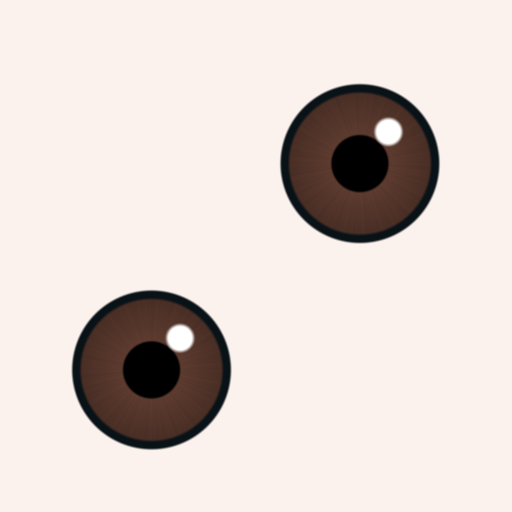
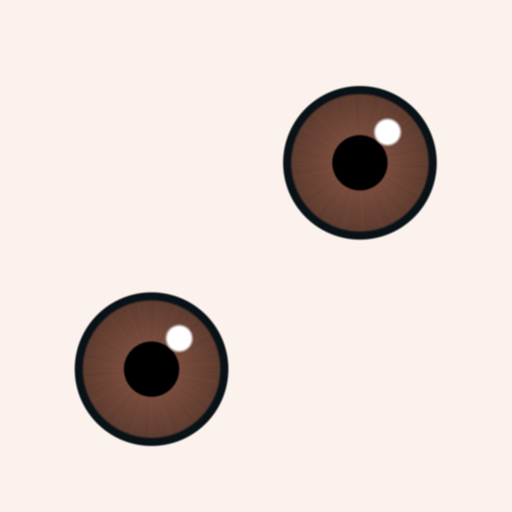
Rounds 24 to 29 of the loop: lid by kind, simple volumes of face and neck, matte skin, wider kinder mouth (5.0 in 10)

Changed region(s): [[0.125, 0.5625, 0.4688, 0.9062], [0.5312, 0.1562, 0.875, 0.5]]

diff --git a/tools/parle_style.py b/tools/parle_style.py
@@ -17,10 +17,10 @@ import numpy as np
 # own default, which this replaces). The series' young men have noses 0.31 to 0.37 of the face long against 0.29 to 0.31 on the cast,
 # and much further out; its old man's is the biggest thing on his face.
 STYLE = {
-    "male": {"forward": 1.25, "nose": 1.6, "tip": 1.5, "brow": 1.4, "eye": 1.25, "skin": 1.3},
-    "male-old": {"forward": 1.3, "nose": 2.0, "tip": 1.65, "brow": 2.2, "eye": 1.25, "skin": 1.3},
-    "female": {"forward": 0.8, "nose": 1.45, "tip": 1.3, "brow": 1.2, "eye": 1.12, "skin": 1.3},
-    "female-old": {"forward": 0.85, "nose": 1.65, "tip": 1.4, "brow": 1.3, "eye": 1.12, "skin": 1.3},
+    "male": {"forward": 1.25, "nose": 1.6, "tip": 1.5, "brow": 1.4, "eye": 1.25, "skin": 1.42},
+    "male-old": {"forward": 1.3, "nose": 2.0, "tip": 1.65, "brow": 2.8, "eye": 1.25, "skin": 1.42},
+    "female": {"forward": 0.8, "nose": 1.45, "tip": 1.3, "brow": 1.2, "eye": 1.12, "skin": 1.42},
+    "female-old": {"forward": 0.85, "nose": 1.65, "tip": 1.4, "brow": 1.9, "eye": 1.12, "skin": 1.42},
 }
 # Round 3 of the loop judged by sight against the series (2026-11-15, 3.1 in 10) asked first for eyes about a third bigger and round,
 # with white showing and a highlight; then warmer, more saturated skin; a bulb at the tip of the nose; eyebrows half as thick again.
@@ -39,7 +39,7 @@ NOSE_TIP_REACH_M = 0.016
 # How round an eye opens at least, its height over its width: the series' eyes are 0.6 to 0.7 (read on its portraits); the cast's
 # lids gave 0.42, with the iris filling the opening (round 5).
 # Round 20 (2026-11-16): at 0.58 the upper lid still covered the top third of the iris, a sleepy look, on all four.
-EYE_TALL_LEAST = 0.68
+EYE_TALL_LEAST = 0.66
 # How much the eye's own map lights it (emission): the white of the series' eyes is white even in the shade of the brow.
 EYE_GLOW = 0.0
 SKIN_WARM = 0.012
@@ -128,10 +128,10 @@ def warmer(rgb, amount):
 # the eyes (`unit`), so one set of numbers serves every person of a kind. SCULPT has them by kind; a share is how much of the way
 # to its form a point goes.
 SCULPT = {
-    "male": {"nose_ball": (0.33, 0.36, 0.31), "nose_share": 0.95, "cheek": 0.52, "cheek_share": 0.45, "shell": 0.28, "chin": 0.42},
-    "male-old": {"nose_ball": (0.4, 0.43, 0.37), "nose_share": 0.95, "cheek": 0.56, "cheek_share": 0.5, "shell": 0.3, "chin": 0.45},
-    "female": {"nose_ball": (0.24, 0.24, 0.21), "nose_share": 0.9, "cheek": 0.5, "cheek_share": 0.45, "shell": 0.22, "chin": 0.36},
-    "female-old": {"nose_ball": (0.28, 0.28, 0.25), "nose_share": 0.9, "cheek": 0.53, "cheek_share": 0.5, "shell": 0.24, "chin": 0.38},
+    "male": {"nose_ball": (0.33, 0.36, 0.31), "nose_share": 0.95, "cheek": 0.52, "cheek_share": 0.45, "shell": 0.28, "chin": 0.5, "lid": 0.1},
+    "male-old": {"nose_ball": (0.44, 0.46, 0.38), "nose_share": 0.95, "cheek": 0.6, "cheek_share": 0.6, "shell": 0.3, "chin": 0.45, "lid": 0.14},
+    "female": {"nose_ball": (0.24, 0.24, 0.21), "nose_share": 0.9, "cheek": 0.5, "cheek_share": 0.45, "shell": 0.22, "chin": 0.36, "lid": 0.03},
+    "female-old": {"nose_ball": (0.28, 0.28, 0.25), "nose_share": 0.9, "cheek": 0.58, "cheek_share": 0.65, "shell": 0.24, "chin": 0.38, "lid": 0.0},
 }
 # Where the forms stand, in distances between the eyes from the middle of the eye globe of that side (cheeks) or from the nose tip
 # (the nose ball behind it, the chin under it): across, back (+y), up.
@@ -139,15 +139,38 @@ CHEEK_AT = (0.12, 0.62, -0.62)
 CHIN_AT = (0.0, 0.55, -1.25)
 # How far about each form its pull reaches, in its own radii, and the zone of the nose about the tip, in distances between the eyes.
 REACH = 1.4
+# How much of the way to the chin's ball a point goes (round 25: the young man's chin "recua muito" from the side).
+# Round 26: at 0.8 a crease stood under the lower lip of both men, where the chin's ball ended.
+CHIN_SHARE = 0.6
 # The shell over an eye leaves the rim of the opening alone: from this many radii of the globe out (round 12: thickened over the rim,
 # it closed the eye).
 SHELL_FROM = 1.18
 NOSE_BALL_UP = 0.1
 # How far under the middle of the globe the shell over an eye reaches, in its radii.
 SHELL_LOW = 0.15
+# How far the upper lid is lifted, in radii of the globe, and how far from the globe's middle the lift reaches.
+# Round 25 (4.75): at 0.22 white showed all about the iris on three of four, the stare the owner calls "esbugalhado"; the
+# series' upper lid always covers a little of the top of the iris.
+# Round 26: the men's lids right at 0.1; the women's eyes, larger and rounder in their kind, still stared: theirs come a
+# little down. By kind, in SCULPT ("lid").
+LID_LIFT = 0.1  # the men's, as SCULPT["male"]["lid"]
+LID_REACH = 1.9
 # The ball stands this share of its depth behind the tip, so the tip comes out a little into a round bulb and nothing is pulled in.
 NOSE_BALL_BACK = 0.78
 NOSE_ZONE = 0.55
+# Simple volumes (round 27, 2026-11-16, 4.1: "pele cerosa e realista", the folds of the neck and the chin, the lips of a real mouth,
+# "volumes mais simples e redondos"). The face and the neck are smoothed where a real face keeps its small forms: about a middle
+# behind and under the nose (in distances between the eyes), whole within SIMPLE_IN and none past SIMPLE_OUT; the rims of the eyes
+# (in radii of the globe) and the lips (an oval about the mouth) are left.
+SIMPLE_MIDDLE = (0.0, 1.0, -0.9)
+SIMPLE_IN = 2.0
+SIMPLE_OUT = 2.9
+SIMPLE_EYE = (1.25, 1.9)
+SIMPLE_MOUTH = (0.0, 0.1, -0.62)
+SIMPLE_MOUTH_WIDE = (0.62, 0.3)
+SIMPLE_ROUNDS = 25
+SIMPLE_IN_STEP = 0.5
+SIMPLE_OUT_STEP = -0.53
 
 
 def onto_ball(points, centre, radii, share, outward_only):
@@ -161,6 +184,43 @@ def onto_ball(points, centre, radii, share, outward_only):
     if outward_only:
         pull = np.where(scaled < 1.0, pull, 0.0)
     return points + pull[:, None] * (onto - points)
+
+
+def simple_weight(points, tip, eyes):
+    """How much each point is smoothed into simple volumes (`smoothed`): the face and the neck under it, but not the rims of the
+    eyes nor the lips, which the lids, the blink and speech need as they are. Blender's axes, the face looking at -y."""
+    points = np.asarray(points, float)
+    centres = [np.asarray(centre, float) for centre, _ in eyes]
+    unit = float(np.linalg.norm(centres[0] - centres[1]))
+    tip = np.asarray(tip, float)
+    middle = tip + np.array(SIMPLE_MIDDLE) * unit
+    weight = smooth((SIMPLE_OUT - np.linalg.norm(points - middle, axis=1) / unit) / (SIMPLE_OUT - SIMPLE_IN))
+    for (centre, radius) in eyes:
+        far = np.linalg.norm(points - np.asarray(centre, float), axis=1) / radius
+        weight *= smooth((far - SIMPLE_EYE[0]) / (SIMPLE_EYE[1] - SIMPLE_EYE[0]))
+    mouth = tip + np.array(SIMPLE_MOUTH) * unit
+    off = (points - mouth) / unit
+    weight *= smooth((np.hypot(off[:, 0] / SIMPLE_MOUTH_WIDE[0], off[:, 2] / SIMPLE_MOUTH_WIDE[1]) - 1.0) / 0.6)
+    return weight
+
+
+def smoothed(points, edges, weight, rounds=None):
+    """Taubin smoothing (Taubin 1995, SIGGRAPH '95, DOI 10.1145/218380.218473: a step in and a step out, so the volume is kept)
+    of the points by their `edges` (n x 2), each point taking `weight` of each step. Returns the new points."""
+    points = np.asarray(points, float).copy()
+    edges = np.asarray(edges, int)
+    count = np.zeros(len(points))
+    np.add.at(count, edges[:, 0], 1)
+    np.add.at(count, edges[:, 1], 1)
+    count = np.maximum(count, 1)[:, None]
+    weight = np.asarray(weight, float)[:, None]
+    for _ in range(SIMPLE_ROUNDS if rounds is None else rounds):
+        for step in (SIMPLE_IN_STEP, SIMPLE_OUT_STEP):
+            total = np.zeros_like(points)
+            np.add.at(total, edges[:, 0], points[edges[:, 1]])
+            np.add.at(total, edges[:, 1], points[edges[:, 0]])
+            points = points + step * weight * (total / count - points)
+    return points
 
 
 def sculpt_field(tip, eyes, kind):
@@ -185,6 +245,15 @@ def sculpt_field(tip, eyes, kind):
             near = ahead & (far < want) & (far < 2.4 * radius) & (far > SHELL_FROM * radius)
             fade = smooth((2.4 * radius - far) / (0.8 * radius))
             points[near] = centre + off[near] / far[near, None] * (far[near] + (want[near] - far[near]) * fade[near])[:, None]
+        # The upper lid lifted off the iris (round 24, 2026-11-16: "olhos pequenos e fundos, sem branco em volta"; the blink run
+        # backwards stops at half the width): the skin over each globe goes up by its kind's "lid" of its radius at the rim, fading out.
+        for (centre, radius) in eyes:
+            centre = np.asarray(centre, float)
+            off = points - centre
+            far = np.linalg.norm(off, axis=1) / radius
+            share = smooth((LID_REACH - far) / (LID_REACH - 1.15)) * smooth((off[:, 2] / radius - 0.1) / 0.4)
+            share *= smooth((1.3 - np.abs(off[:, 0]) / radius) / 0.5) * front * (off[:, 1] < 0.3 * radius)
+            points[:, 2] += spec["lid"] * radius * share
         # The cheeks out onto a ball under each eye.
         for centre, _ in eyes:
             side = np.sign(centre[0] - (centres[0][0] + centres[1][0]) / 2)
@@ -194,7 +263,7 @@ def sculpt_field(tip, eyes, kind):
         # The chin onto a ball.
         chin = tip + np.array(CHIN_AT) * unit
         radius = spec["chin"] * unit
-        points[front] = onto_ball(points[front], chin, (radius * 1.1, radius, radius * 0.85), 0.5, True)
+        points[front] = onto_ball(points[front], chin, (radius * 1.1, radius, radius * 0.85), CHIN_SHARE, True)
         # The nose onto a ball behind its tip, in the zone of the nose only.
         radii = np.array(spec["nose_ball"]) * unit
         # The ball stands a little above the tip, so the tip comes up into it: a nose shorter and round, not hanging (round 13).

diff --git a/tools/parle_polish.py b/tools/parle_polish.py
@@ -233,7 +233,8 @@ EYE_ROUND_TRIAL = "PARLE_EYE_ROUND"
 EYE_TALL_STEP_M = 0.0004
 EYE_TALL_ROUNDS = 5
 EYE_TALL_BLINK_MOST = 0.35
-EYE_OPEN_BLINK_MOST = 0.6
+# Round 23 (2026-11-16): at 0.6 the lids stopped at 0.52 of the width, short of EYE_TALL_LEAST, and still read half closed.
+EYE_OPEN_BLINK_MOST = 1.0
 FAIR_SOFT_FROM = 0.15
 # The lips are the points their own traits move by this share or more. They take part with a small weight: point against point
 # their sculpted form came out rough, a row of ridges along the upper lip (2026-11-12, in clay), and a small weight takes out what
@@ -726,6 +727,9 @@ def keeps_its_move(name):
     return name.startswith(MOUTH_MOVES)
 
 
+SKIN_MATTE = {"Roughness": 0.75, "Specular IOR Level": 0.25, "Coat Weight": 0.0, "Subsurface Weight": 0.0}
+
+
 def drawn_paint(meshes, body, kind, sex):
     """The paint of a drawn face that has to come after the cast's own dyes (`parle_paint`): the eyebrows as clean bands (dark on the
     young, light grey on the old; the cast dyes them in the hair's colour after the face is made), and a woman's lips, drawn on
@@ -771,6 +775,12 @@ def matte_skin(body):
     gone = [link for link in tree.links if link.to_node.type == "BSDF_PRINCIPLED" and link.to_socket.name == "Normal"]
     for link in gone:
         tree.links.remove(link)
+    # Round 27 (2026-11-16): "pele cerosa": the skin a matte clay, with no wax sheen.
+    for node in tree.nodes:
+        if node.type == "BSDF_PRINCIPLED":
+            for name, value in SKIN_MATTE.items():
+                if name in node.inputs and not node.inputs[name].is_linked:
+                    node.inputs[name].default_value = value
     return len(gone)
 
 
@@ -1668,6 +1678,20 @@ def natural_body(meshes, rig, height, sex, kit):
         tip = parle_style.nose_tip(rest_points(body), balls)
         warp(body, parle_style.sculpt_field(tip, balls, kind), kept=keeps_its_move)
         print("CABEÇA esculpida do tipo", kind)
+        # Then smoothed into simple volumes; the same move goes to every key, so the lids and the speech move as they did.
+        rest = rest_points(body)
+        edges = np.array([edge.vertices[:] for edge in body.data.edges])
+        # An open edge of the skin (the ring the neck's seam leaves, the lining's end) would be pulled out of the mesh: it stays.
+        sides = np.zeros(len(edges), int)
+        index = {tuple(sorted(edge)): number for number, edge in enumerate(edges.tolist())}
+        for polygon in body.data.polygons:
+            for key in polygon.edge_keys:
+                sides[index[tuple(sorted(key))]] += 1
+        weight = parle_style.simple_weight(rest, tip, balls)
+        weight[np.unique(edges[sides < 2])] = 0.0
+        move = parle_style.smoothed(rest, edges, weight) - rest
+        warp(body, lambda points: points + move, kept=lambda name: True)
+        print("CABEÇA em volumes simples: o ponto que mais andou,", round(float(np.linalg.norm(move, axis=1).max()) * 1000, 1), "mm")
     lined = lining_behind_skin(meshes)
     if lined:
         print("FORRO DA BOCA:", lined, "pontos de volta para trás da pele do rosto")

diff --git a/tools/parle_face.py b/tools/parle_face.py
@@ -71,7 +71,9 @@ CHIN_LONGER = {"female": 0.05, "male": 0.0}
 # With the jaw where the lips meet (`CALM_LOOK`), the corners of the women's mouth sit 4% of its width above the middle of the lips
 # with no smile at all, and with 0.12 of it 7%: past Sofia's (level) and those of the women of the game (up to 4%), a smile held at
 # rest (2026-11-12, `parle_beauty.mouth_curve` on whole portraits). The men's sit 2% below with 0.12, as Rafa's.
-REST_SMILE = {"female": 0.05, "male": 0.12}
+# Round 26 (2026-11-16): the series' faces rest with the corners of the mouth up a little, kind faces; at 0.05 and 0.12 the
+# old woman read "séria e cansada".
+REST_SMILE = {"female": 0.14, "male": 0.2}
 # The nose stays at -0.3 in width: at -0.7, with the kit's narrow straight nose on top, the measure did not move (it reads the wings of
 # the nose against the cheekbones, and the cheekbones had done it) and the cheek drawn in beside the wing let the lining of the mouth
 # through (2026-11-12, `parle_polish.lining_behind_skin`).
@@ -252,9 +254,10 @@ POUT_VISEMES = ("viseme_U", "viseme_O", "viseme_CH", "viseme_RR")
 # what the judge by sight called "the same flat slit") while the lower teeth dropped as written, further than the lip that covers
 # them. Found on 2026-11-12 by measuring the shapes of a built body against what they should have been. The body keeps what was
 # judged; the teeth and the tongue now go with it, and no mesh is taken twice (`calm_speech`, `mixed_speech`).
+# Round 23 (2026-11-16): the mouth "hardly opens" in the "a" against the series' wide-open speech: jaw and "a" a third more.
 SPEECH_OPEN = {
-    "female": {"jawOpen": 0.42, "viseme_aa": 0.36, "viseme_E": 0.36, "viseme_O": 0.81, "viseme_I": 0.64},
-    "male": {"jawOpen": 0.49, "viseme_aa": 0.42, "viseme_E": 0.49, "viseme_I": 0.81},
+    "female": {"jawOpen": 0.57, "viseme_aa": 0.49, "viseme_E": 0.36, "viseme_O": 0.81, "viseme_I": 0.64},
+    "male": {"jawOpen": 0.66, "viseme_aa": 0.57, "viseme_E": 0.49, "viseme_I": 0.81},
 }
 # The rounded shapes of speech. With the weights the player gives them (`LipSync.cs`: about half of each shape), the kit's "o" was
 # "a wide letterbox gape where Sofia makes a small round pucker", its "ch" "the same slack half-open slit as RR, E and TH, where
@@ -288,7 +291,8 @@ SPEECH_MIX = {
 # and the same women's in the game 30 to 38%; the lips have since been given a form of their own (`LIPS_FULL`) and the mouth sent
 # back (`MOUTH_BACK`), which is what the pout was. +0.1 left it at 38%, to the judge by sight still twice the width of the nose
 # where Sofia's is one and a half: -0.25, about 35%.
-MOUTH_WIDE = {"female": 0.7, "male": 0.9}
+# Round 23 (2026-11-16, 4.5): on all four the mouth "a line", too narrow for the series' wide mouths.
+MOUTH_WIDE = {"female": 1.1, "male": 1.3}
 MOUTH_CORE_M = 0.006
 MOUTH_FADE_M = 0.02
 TEETH_DOWN_M = 0.0035

diff --git a/tools/eye_texture.py b/tools/eye_texture.py
@@ -25,7 +25,9 @@ CENTRES = ((0.703, 0.273), (0.296, 0.676))
 # the width of the face it measured 0.109, Sofia's 0.097 and the same woman's in the game 0.101: a little smaller.
 # Round 21 (2026-11-16): with the lids opened rounder the white showed all about the iris, a scared look; the series' iris fills
 # most of the eye.
-IRIS_RADIUS = 0.155
+# Round 23 (4.5): at 0.155 the iris filled the eye and no white showed: between the two.
+# Round 25: with the lid lifted, an iris filling more of the width (about 55 to 60 % of it in the series).
+IRIS_RADIUS = 0.15
 # The cast has no eye bones and the globe rests looking slightly up: without this the pupil touches the upper lid.
 # Measured on a woman of the cast (2026-11-12), the lids opened from 5 to 8 degrees above the middle of the iris to 21 to 27 below
 # it: at 0.2 the upper lid still lay across the top of the pupil. With the lids as they are now (`parle_face.FAIR_LOOK`), at 0.3
@@ -56,7 +58,8 @@ LIMBUS_SHARE = 0.90
 # also a choice by eye, to be judged in the player. Converted to sRGB.
 # The series the owner chose on 2026-11-15 has lighter, clearer brown irises: a judge by sight against it asked for them a quarter
 # lighter (round 8 of the loop), so each colour is IRIS_LIGHTER times the one chosen above.
-IRIS_LIGHTER = 1.0
+# Round 27: the dark brown iris read almost black; the series' are a mid brown.
+IRIS_LIGHTER = 1.3
 IRISES = {name: tuple(min(1.0, value * IRIS_LIGHTER) for value in colour) for name, colour in {
     "castanho-escuro": (0.16, 0.2, 0.316),
     "castanho": (0.202, 0.251, 0.393),

diff --git a/tools/parle_paint.py b/tools/parle_paint.py
@@ -18,14 +18,14 @@ BROW_EDGE = (0.18, 0.5)
 # way to a colour of their own.
 BROW_DARK = (0.09, 0.06, 0.045)
 BROW_DARK_SHARE = 0.8
-BROW_OLD_GREY = (0.9, 0.88, 0.84)
+BROW_OLD_GREY = (0.8, 0.79, 0.76)
 BROW_OLD_SHARE = 0.85
 # Box blur of the skin map, in pixels of a 1024 map (scaled to the map), three passes: the pores and grain of the kit's photograph go.
 SKIN_BLUR_PX = 5
 # The blush: a warm red-orange (sRGB) laid over the skin on each cheek and on the nose tip, most at the middle, fading with a
 # gaussian of the given width in distances between the eyes. The old take more, as the series' old man.
 BLUSH = (0.86, 0.38, 0.28)
-BLUSH_SHARE = {"female": 0.4, "female-old": 0.45, "male": 0.36, "male-old": 0.6}
+BLUSH_SHARE = {"female": 0.4, "female-old": 0.45, "male": 0.45, "male-old": 0.6}
 CHEEK_SPOT = (0.12, -0.25, -0.72)
 CHEEK_WIDE = 0.34
 NOSE_SPOT_WIDE = 0.22
@@ -34,9 +34,10 @@ NOSE_SHARE = 0.8
 # the mouth goes this share of the way to the face's own skin colour, so the painted lip of the kit's photograph goes.
 MOUTH_SPOT = (0.0, -0.05, -0.62)
 MOUTH_WIDE = (0.42, 0.16)
-LIP_TO_SKIN = 0.8
+# Round 25 (4.75): gone almost all the way, the mouth was "um risco apagado": the series' lips have a little colour.
+LIP_TO_SKIN = 0.45
 # A woman's lips are drawn on a patch of their own (`parle_lips`): it goes this share of the way to the skin at their corners.
-LIP_PATCH_TO_SKIN = 0.7
+LIP_PATCH_TO_SKIN = 0.35
 
 
 def smooth(low, high, value):

diff --git a/tests/test_parle_style.py b/tests/test_parle_style.py
@@ -41,4 +41,16 @@ sculpt = parle_style.sculpt_field(tip, eyes, "male")
 bridge = np.array([[0.0, -0.085, 1.628]])
 assert sculpt(tip[None])[0, 1] < tip[1] - 0.001, "the tip of the nose does not come out into its ball"
 assert np.allclose(sculpt(bridge), bridge), "the ball of the nose pulls the bridge in"
+# Simple volumes (round 27): a bump on a smoothed patch goes, the volume stays, and the rims of the eyes and the lips are left.
+grid = np.stack(np.meshgrid(np.arange(9.0), np.arange(9.0)), -1).reshape(-1, 2)
+flat = np.c_[grid, np.zeros(len(grid))]
+flat[40, 2] = 1.0
+links = [(i, i + 1) for i in range(81) if i % 9 < 8] + [(i, i + 9) for i in range(72)]
+done = parle_style.smoothed(flat, np.array(links), np.ones(81), rounds=10)
+assert done[40, 2] < 0.4 and abs(done[:, 2].sum() - 1.0) < 0.5, "the bump is not smoothed out, or the volume went"
+rim = eyes[0][0] + np.array([0.0, -0.012, 0.0])
+lips = tip + np.array([0.0, 0.006, -0.04])
+neck = tip + np.array([0.0, 0.06, -0.12])
+weight = parle_style.simple_weight(np.array([rim, lips, neck]), tip, eyes)
+assert weight[0] < 0.01 and weight[1] < 0.01 and weight[2] > 0.9, f"the smoothing takes the eye or the lips, or leaves the neck: {weight}"
 print("ok")
